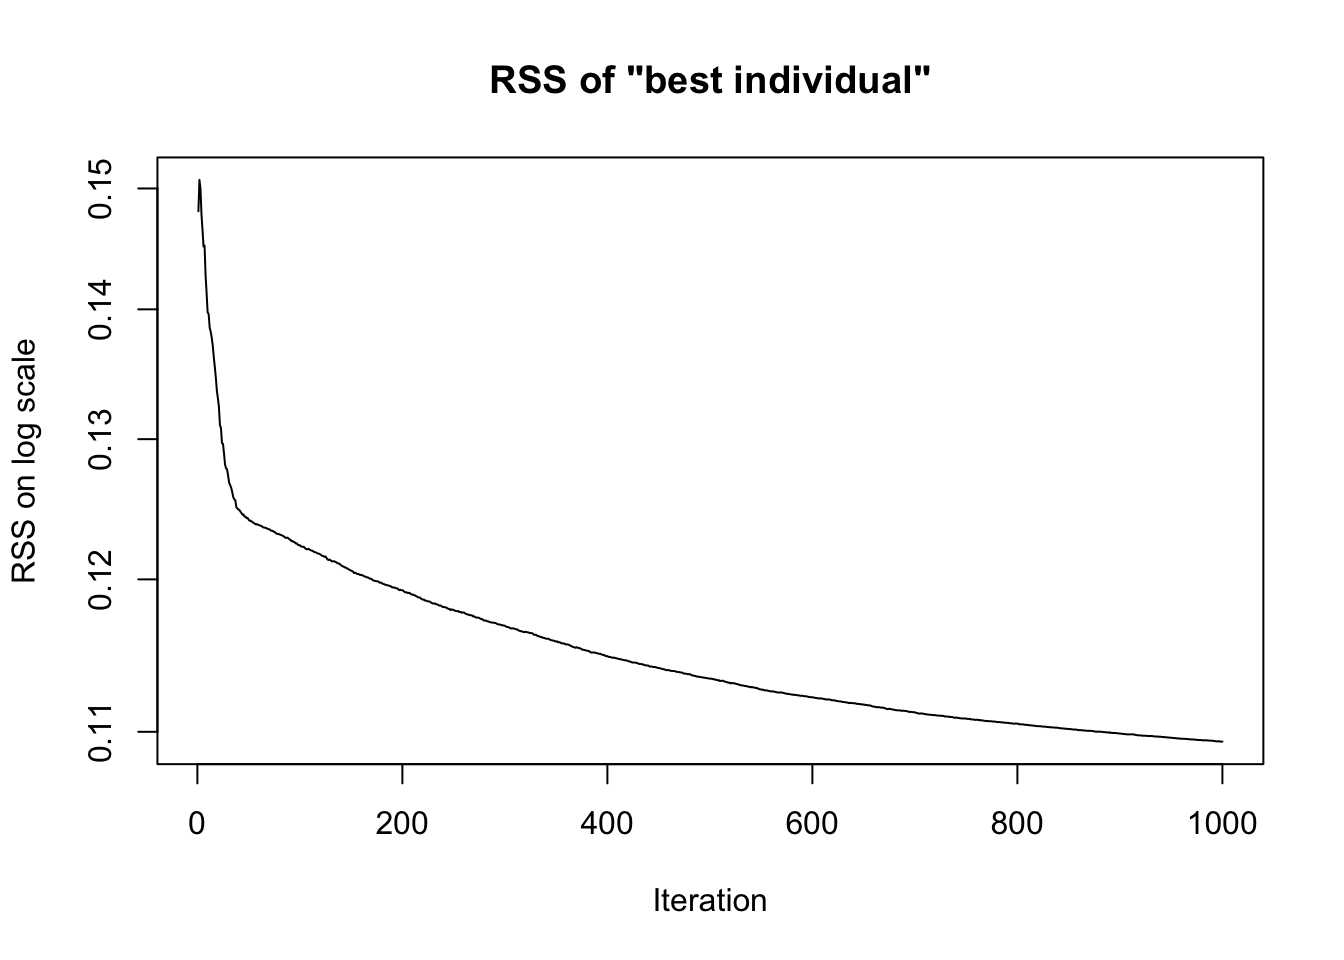
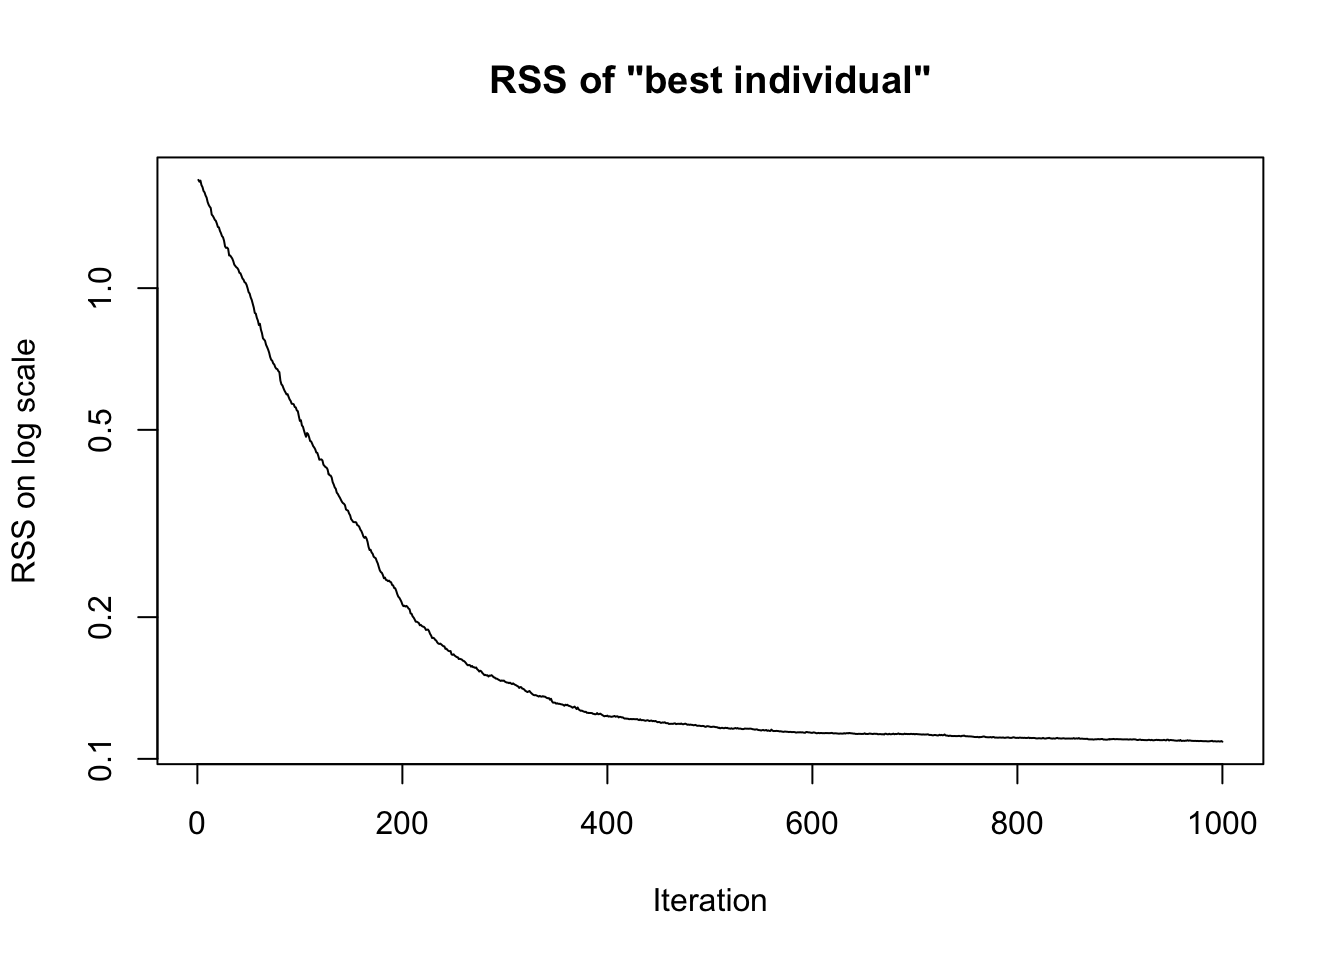
- new version

diff --git a/_site/posts/2025-03-12-genetic-algorithm/2025-03-12-genetic-algorithm.html b/_site/posts/2025-03-12-genetic-algorithm/2025-03-12-genetic-algorithm.html
@@ -281,7 +281,10 @@ y = X\beta + \epsilon, \epsilon_i \sim \mathcal{N}
 <li>We repeat <span class="math inline">\(m\)</span> times:
 <ul>
 <li><em>Selection</em>: The top 50% of individuals (i.e., those with the lowest RSS) are selected and then duplicated to maintain the population size</li>
-<li><em>Mutation</em>: We nudge the elements of <span class="math inline">\(P\)</span> by element-wise multiplication with a matrix with identical dimension filled with values sampled from a log-normal distribution with log_mean=0 and log_sd=s – all updates maintain the sign of the parameter (=limitation of the algorithm)</li>
+<li><em>Mutation</em>: We nudge the elements of <span class="math inline">\(P\)</span> by element-wise multiplication with a matrix with identical dimension filled with values sampled from a log-normal distribution with <em>log_mean=0</em> and <em>log_sd=s</em>
+<ul>
+<li>all updates maintain the sign of the parameter (=limitation of the algorithm)</li>
+</ul></li>
 </ul></li>
 </ul>
 </section>
@@ -393,11 +396,19 @@ y = X\beta + \epsilon, \epsilon_i \sim \mathcal{N}
 </section>
 <section id="run-algorithm" class="level3">
 <h3 class="anchored" data-anchor-id="run-algorithm">Run algorithm</h3>
+<ul>
+<li>Some suggestions for playing around with tuning parameters:
+<ul>
+<li>Vary number of individuals <span class="math inline">\(k\)</span> from 2 to 1000 (only non-odd integers please)</li>
+<li>Vary number of iterations <span class="math inline">\(m\)</span> from 10 to 1000 (look at plot of RSS to adjust in a smart fashion)</li>
+<li>Vary standard deviation on log scale of mutation strength <span class="math inline">\(s\)</span> from 0.001 to 0.1</li>
+</ul></li>
+</ul>
 <div class="cell">
 <div class="sourceCode cell-code" id="cb17"><pre class="sourceCode r code-with-copy"><code class="sourceCode r"><span id="cb17-1"><a href="#cb17-1" aria-hidden="true" tabindex="-1"></a>sol <span class="ot">&lt;-</span> <span class="fu">genetic_algorithm_optimizer</span>(X, y, </span>
-<span id="cb17-2"><a href="#cb17-2" aria-hidden="true" tabindex="-1"></a>                                   <span class="at">k =</span> <span class="dv">100</span>,</span>
+<span id="cb17-2"><a href="#cb17-2" aria-hidden="true" tabindex="-1"></a>                                   <span class="at">k =</span> <span class="dv">10</span>,</span>
 <span id="cb17-3"><a href="#cb17-3" aria-hidden="true" tabindex="-1"></a>                                   <span class="at">m =</span> <span class="dv">1000</span>, </span>
-<span id="cb17-4"><a href="#cb17-4" aria-hidden="true" tabindex="-1"></a>                                   <span class="at">s =</span> <span class="fl">0.002</span>)</span>
+<span id="cb17-4"><a href="#cb17-4" aria-hidden="true" tabindex="-1"></a>                                   <span class="at">s =</span> <span class="fl">0.01</span>)</span>
 <span id="cb17-5"><a href="#cb17-5" aria-hidden="true" tabindex="-1"></a><span class="fu">plot</span>(sol<span class="sc">$</span>rss_history, </span>
 <span id="cb17-6"><a href="#cb17-6" aria-hidden="true" tabindex="-1"></a>     <span class="at">type =</span> <span class="st">'l'</span>, </span>
 <span id="cb17-7"><a href="#cb17-7" aria-hidden="true" tabindex="-1"></a>     <span class="at">log =</span> <span class="st">'y'</span>, </span>
@@ -411,18 +422,15 @@ y = X\beta + \epsilon, \epsilon_i \sim \mathcal{N}
 </figure>
 </div>
 </div>
-<div class="sourceCode cell-code" id="cb18"><pre class="sourceCode r code-with-copy"><code class="sourceCode r"><span id="cb18-1"><a href="#cb18-1" aria-hidden="true" tabindex="-1"></a><span class="fu">data.frame</span>(<span class="at">analytic =</span> <span class="fu">coef</span>(<span class="fu">lm</span>(y <span class="sc">~</span> <span class="sc">-</span> <span class="dv">1</span> <span class="sc">+</span> ., <span class="at">data =</span> dat)), </span>
-<span id="cb18-2"><a href="#cb18-2" aria-hidden="true" tabindex="-1"></a>           <span class="at">genetic =</span> sol<span class="sc">$</span>P[, <span class="dv">1</span>])</span></code><button title="Copy to Clipboard" class="code-copy-button"><i class="bi"></i></button></pre></div>
+<div class="sourceCode cell-code" id="cb18"><pre class="sourceCode r code-with-copy"><code class="sourceCode r"><span id="cb18-1"><a href="#cb18-1" aria-hidden="true" tabindex="-1"></a><span class="fu">data.frame</span>(<span class="at">analytic_solution =</span> <span class="fu">coef</span>(<span class="fu">lm</span>(y <span class="sc">~</span> <span class="sc">-</span> <span class="dv">1</span> <span class="sc">+</span> ., <span class="at">data =</span> dat)), </span>
+<span id="cb18-2"><a href="#cb18-2" aria-hidden="true" tabindex="-1"></a>           <span class="at">genetic_algorithm_solution =</span> sol<span class="sc">$</span>P[, <span class="dv">1</span>])</span></code><button title="Copy to Clipboard" class="code-copy-button"><i class="bi"></i></button></pre></div>
 <div class="cell-output cell-output-stdout">
-<pre><code>      analytic      genetic
-V1  0.09093336 -0.006984711
-V2  1.23160902  1.172393260
-V3 -0.41057390 -0.463592375</code></pre>
+<pre><code>   analytic_solution genetic_algorithm_solution
+V1        0.09093336               -0.005674275
+V2        1.23160902                1.175974150
+V3       -0.41057390               -0.459881868</code></pre>
 </div>
 </div>
-<ul>
-<li></li>
-</ul>
 
 
 </section>

diff --git a/_site/posts/2024-05-03-webassembly-experiment/2024-05-03-webassembly-experiment.html b/_site/posts/2024-05-03-webassembly-experiment/2024-05-03-webassembly-experiment.html
@@ -293,7 +293,7 @@ globalThis.qwebrCustomizedWebROptions = {
 };
 
 // Store cell data
-globalThis.qwebrCellDetails = [{"options":{"classes":"","label":"unnamed-chunk-1","editor-font-scale":1,"context":"interactive","dpi":72,"results":"markup","editor-quick-suggestions":"false","out-width":"700px","output":"true","fig-width":7,"comment":"","out-height":"","message":"true","autorun":"false","read-only":"false","warning":"true","fig-height":5,"fig-cap":"","editor-max-height":""},"id":1,"code":"plot(1:10)\ncars |> \n  ggplot(aes(speed, dist)) + geom_point()"}];
+globalThis.qwebrCellDetails = [{"id":1,"options":{"classes":"","editor-font-scale":1,"fig-height":5,"out-width":"700px","output":"true","comment":"","out-height":"","results":"markup","read-only":"false","fig-cap":"","editor-max-height":"","label":"unnamed-chunk-1","warning":"true","autorun":"false","editor-quick-suggestions":"false","dpi":72,"message":"true","context":"interactive","fig-width":7},"code":"plot(1:10)\ncars |> \n  ggplot(aes(speed, dist)) + geom_point()"}];
 
 </script>
 <script type="module">

diff --git a/_site/index.html b/_site/index.html
@@ -254,7 +254,7 @@ window.Quarto = {
     </div>
 </div>
 <div class="list quarto-listing-default">
-<div class="quarto-post image-right" data-index="0" data-categories="R" data-listing-date-sort="1741734000000" data-listing-file-modified-sort="1741853873897" data-listing-date-modified-sort="NaN" data-listing-reading-time-sort="4" data-listing-word-count-sort="710">
+<div class="quarto-post image-right" data-index="0" data-categories="R" data-listing-date-sort="1741734000000" data-listing-file-modified-sort="1741854441270" data-listing-date-modified-sort="NaN" data-listing-reading-time-sort="4" data-listing-word-count-sort="773">
 <div class="thumbnail">
 <p><a href="./posts/2025-03-12-genetic-algorithm/2025-03-12-genetic-algorithm.html" class="no-external"></a></p><a href="./posts/2025-03-12-genetic-algorithm/2025-03-12-genetic-algorithm.html" class="no-external">
 <p class="card-img-top"><img src="posts/2025-03-12-genetic-algorithm/2025-03-12-genetic-algorithm_files/figure-html/unnamed-chunk-4-1.png"  class="thumbnail-image card-img"/></p>
